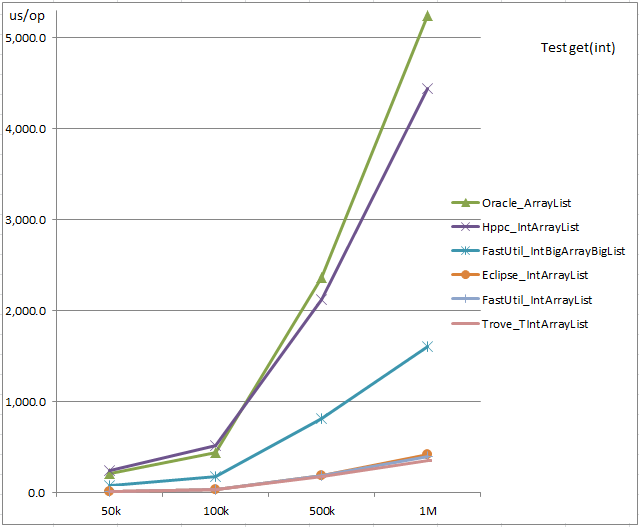
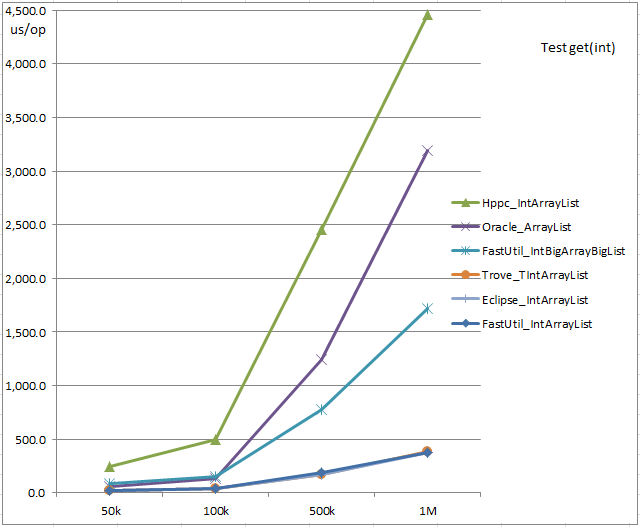
add new tests and some fixups

diff --git a/src/main/java/primitive/list/TesComboIntList.java b/src/main/java/primitive/list/TesComboIntList.java
@@ -19,22 +19,18 @@ import java.util.concurrent.TimeUnit;
 @Measurement(iterations = 5, time = 1, timeUnit = TimeUnit.SECONDS)
 @Fork(1)
 @State(Scope.Benchmark)
-public class TestGetIntList {
+public class TesComboIntList {
     @Param({"30000"})
     private int size;
-    private List<Integer> list1;
-    private List<Integer> list2;
-    private IntArrayList list3;
-    private TIntArrayList list4;
-//    private TIntLinkedList list5;
-    private org.eclipse.collections.impl.list.mutable.primitive.IntArrayList list6;
-    private it.unimi.dsi.fastutil.ints.IntArrayList list7;
-    private it.unimi.dsi.fastutil.ints.IntBigArrayBigList list8;
 
     @Benchmark
     public long test_Oracle_ArrayList() {
+        List<Integer> list = new ArrayList<>();
+        for(int i = 0; i < size; i++) {
+            list.add(i);
+        }
         long sum = 0;
-        for(int v : list1) {
+        for(int v : list) {
             sum += v;
         }
         return sum;
@@ -42,8 +38,12 @@ public class TestGetIntList {
 
     @Benchmark
     public long test_Oracle_LinkedList() {
+        List<Integer> list = new LinkedList<>();
+        for(int i = 0; i < size; i++) {
+            list.add(i);
+        }
         long sum = 0;
-        for(int v : list2) {
+        for(int v : list) {
             sum += v;
         }
         return sum;
@@ -51,8 +51,12 @@ public class TestGetIntList {
 
     @Benchmark
     public long test_Hppc_IntArrayList() {
+        IntArrayList list = new IntArrayList();
+        for(int i = 0; i < size; i++) {
+            list.add(i);
+        }
         long sum = 0;
-        for(IntCursor v : list3) {
+        for(IntCursor v : list) {
             sum += v.value;
         }
         return sum;
@@ -60,83 +64,76 @@ public class TestGetIntList {
 
     @Benchmark
     public long test_Trove_TIntArrayList() {
+        TIntArrayList list = new TIntArrayList();
+        for(int i = 0; i < size; i++) {
+            list.add(i);
+        }
         long sum = 0;
         for(int i = 0; i < size; i++) {
-            sum += list4.get(i);
+            sum += list.get(i);
         }
         return sum;
     }
 
-//    @Benchmark
-//    public long test_Trove_TIntLinkedList() {
-//        long sum = 0;
-//        for(int i = 0; i < size; i++) {
-//            sum += list5.get(i);
-//        }
-//        return sum;
-//    }
+    @Benchmark
+    public long test_Trove_TIntLinkedList() {
+        TIntLinkedList list = new TIntLinkedList();
+        for(int i = 0; i < size; i++) {
+            list.add(i);
+        }
+        long sum = 0;
+        for(int i = 0; i < size; i++) {
+            sum += list.get(i);
+        }
+        return sum;
+    }
 
     @Benchmark
     public long test_Eclipse_IntArrayList() {
+        org.eclipse.collections.impl.list.mutable.primitive.IntArrayList list = new org.eclipse.collections.impl.list.mutable.primitive.IntArrayList();
+        for(int i = 0; i < size; i++) {
+            list.add(i);
+        }
         long sum = 0;
         for(int i = 0; i < size; i++) {
-            sum += list6.get(i);
+            sum += list.get(i);
         }
         return sum;
     }
 
     @Benchmark
     public long test_FastUtil_IntArrayList() {
+        it.unimi.dsi.fastutil.ints.IntArrayList list = new it.unimi.dsi.fastutil.ints.IntArrayList();
+        for(int i = 0; i < size; i++) {
+            list.add(i);
+        }
         long sum = 0;
         for(int i = 0; i < size; i++) {
-            sum += list7.getInt(i);
+            sum += list.getInt(i);
         }
         return sum;
     }
 
     @Benchmark
     public long test_FastUtil_IntBigArrayBigList() {
+        it.unimi.dsi.fastutil.ints.IntBigArrayBigList list = new it.unimi.dsi.fastutil.ints.IntBigArrayBigList();
+        for(int i = 0; i < size; i++) {
+            list.add(i);
+        }
         long sum = 0;
         for(int i = 0; i < size; i++) {
-            sum += list8.getInt(i);
+            sum += list.getInt(i);
         }
         return sum;
     }
 
-    @Setup(Level.Trial)
-    public void setup() {
-        list1 = new ArrayList<>(size);
-        list2 = new LinkedList<>();
-        list3 = new IntArrayList(size);
-        list4 = new TIntArrayList(size);
-//        list5 = new TIntLinkedList();
-        list6 = new org.eclipse.collections.impl.list.mutable.primitive.IntArrayList(size);
-        list7 = new it.unimi.dsi.fastutil.ints.IntArrayList(size);
-        list8 = new it.unimi.dsi.fastutil.ints.IntBigArrayBigList(size);
-
-        for(int i = 0; i < size; i++) {
-            list1.add(i);
-            list2.add(i);
-            list3.add(i);
-            list4.add(i);
-//            list5.add(i);
-            list6.add(i);
-            list7.add(i);
-            list8.add(i);
-        }
-
-        System.gc();
-        System.gc();
-        System.gc();
-    }
 
     public static void main(String[] args) throws RunnerException {
         Options opt = new OptionsBuilder()
-                .include(TestGetIntList.class.getSimpleName())
+                .include(TesComboIntList.class.getSimpleName())
                 .param("size","50000","100000","500000","1000000")
                 .build();
 
         new Runner(opt).run();
     }
-
 }

diff --git a/src/main/java/primitive/list/TesComboLongList.java b/src/main/java/primitive/list/TesComboLongList.java
@@ -19,22 +19,18 @@ import java.util.concurrent.TimeUnit;
 @Measurement(iterations = 5, time = 1, timeUnit = TimeUnit.SECONDS)
 @Fork(1)
 @State(Scope.Benchmark)
-public class TestGetLongList {
+public class TesComboLongList {
     @Param({"30000"})
     private int size;
-    private List<Long> list1;
-    private List<Long> list2;
-    private LongArrayList list3;
-    private TLongArrayList list4;
-//    private TLongLinkedList list5;
-    private org.eclipse.collections.impl.list.mutable.primitive.LongArrayList list6;
-    private it.unimi.dsi.fastutil.longs.LongArrayList list7;
-    private it.unimi.dsi.fastutil.longs.LongBigList list8;
 
     @Benchmark
     public long test_Oracle_ArrayList() {
+        List<Long> list = new ArrayList<>();
+        for(long i = 0; i < size; i++) {
+            list.add(i);
+        }
         long sum = 0;
-        for(long v : list1) {
+        for(long v : list) {
             sum += v;
         }
         return sum;
@@ -42,8 +38,12 @@ public class TestGetLongList {
 
     @Benchmark
     public long test_Oracle_LinkedList() {
+        List<Long> list = new LinkedList<>();
+        for(long i = 0; i < size; i++) {
+            list.add(i);
+        }
         long sum = 0;
-        for(long v : list2) {
+        for(long v : list) {
             sum += v;
         }
         return sum;
@@ -51,8 +51,12 @@ public class TestGetLongList {
 
     @Benchmark
     public long test_Hppc_LongArrayList() {
+        LongArrayList list = new LongArrayList();
+        for(long i = 0; i < size; i++) {
+            list.add(i);
+        }
         long sum = 0;
-        for(LongCursor v : list3) {
+        for(LongCursor v : list) {
             sum += v.value;
         }
         return sum;
@@ -60,79 +64,72 @@ public class TestGetLongList {
 
     @Benchmark
     public long test_Trove_TLongArrayList() {
+        TLongArrayList list = new TLongArrayList();
+        for(int i = 0; i < size; i++) {
+            list.add(i);
+        }
         long sum = 0;
         for(int i = 0; i < size; i++) {
-            sum += list4.get(i);
+            sum += list.get(i);
         }
         return sum;
     }
 
-//    @Benchmark
-//    public long test_Trove_TLongLinkedList() {
-//        long sum = 0;
-//        for(int i = 0; i < size; i++) {
-//            sum += list5.get(i);
-//        }
-//        return sum;
-//    }
+    @Benchmark
+    public long test_Trove_TLongLinkedList() {
+        TLongLinkedList list = new TLongLinkedList();
+        for(int i = 0; i < size; i++) {
+            list.add(i);
+        }
+        long sum = 0;
+        for(int i = 0; i < size; i++) {
+            sum += list.get(i);
+        }
+        return sum;
+    }
 
     @Benchmark
     public long test_Eclipse_LongArrayList() {
+        org.eclipse.collections.impl.list.mutable.primitive.LongArrayList list = new org.eclipse.collections.impl.list.mutable.primitive.LongArrayList();
+        for(int i = 0; i < size; i++) {
+            list.add(i);
+        }
         long sum = 0;
         for(int i = 0; i < size; i++) {
-            sum += list6.get(i);
+            sum += list.get(i);
         }
         return sum;
     }
 
     @Benchmark
     public long test_FastUtil_LongArrayList() {
+        it.unimi.dsi.fastutil.longs.LongArrayList list = new it.unimi.dsi.fastutil.longs.LongArrayList();
+        for(int i = 0; i < size; i++) {
+            list.add(i);
+        }
         long sum = 0;
         for(int i = 0; i < size; i++) {
-            sum += list7.getLong(i);
+            sum += list.getLong(i);
         }
         return sum;
     }
 
     @Benchmark
     public long test_FastUtil_LongBigArrayBigList() {
+        it.unimi.dsi.fastutil.longs.LongBigList list = new it.unimi.dsi.fastutil.longs.LongBigArrayBigList();
+        for(int i = 0; i < size; i++) {
+            list.add(i);
+        }
         long sum = 0;
         for(int i = 0; i < size; i++) {
-            sum += list8.getLong(i);
+            sum += list.getLong(i);
         }
         return sum;
     }
 
-    @Setup(Level.Trial)
-    public void setup() {
-        list1 = new ArrayList<>(size);
-        list2 = new LinkedList<>();
-        list3 = new LongArrayList(size);
-        list4 = new TLongArrayList(size);
-//        list5 = new TLongLinkedList();
-        list6 = new org.eclipse.collections.impl.list.mutable.primitive.LongArrayList(size);
-        list7 = new it.unimi.dsi.fastutil.longs.LongArrayList(size);
-        list8 = new it.unimi.dsi.fastutil.longs.LongBigArrayBigList(size);
-
-        for(long i = 0; i < size; i++) {
-            list1.add(i);
-            list2.add(i);
-            list3.add(i);
-            list4.add(i);
-//            list5.add(i);
-            list6.add(i);
-            list7.add(i);
-            list8.add(i);
-        }
-
-        System.gc();
-        System.gc();
-        System.gc();
-    }
-
     public static void main(String[] args) throws RunnerException {
         Options opt = new OptionsBuilder()
-                .include(TestGetLongList.class.getSimpleName())
+                .include(TesComboLongList.class.getSimpleName())
                 .param("size","50000","100000","500000","1000000")
                 .build();
 

diff --git a/src/main/java/primitive/list/TesComboDoubleList.java b/src/main/java/primitive/list/TesComboDoubleList.java
@@ -1,0 +1,14 @@
+package primitive.list;
+
+import org.openjdk.jmh.annotations.*;
+
+import java.util.concurrent.TimeUnit;
+
+@BenchmarkMode(Mode.AverageTime)
+@OutputTimeUnit(TimeUnit.MICROSECONDS)
+@Warmup(iterations = 5, time = 1, timeUnit = TimeUnit.SECONDS)
+@Measurement(iterations = 5, time = 1, timeUnit = TimeUnit.SECONDS)
+@Fork(1)
+@State(Scope.Benchmark)
+public class TesComboDoubleList {
+}
